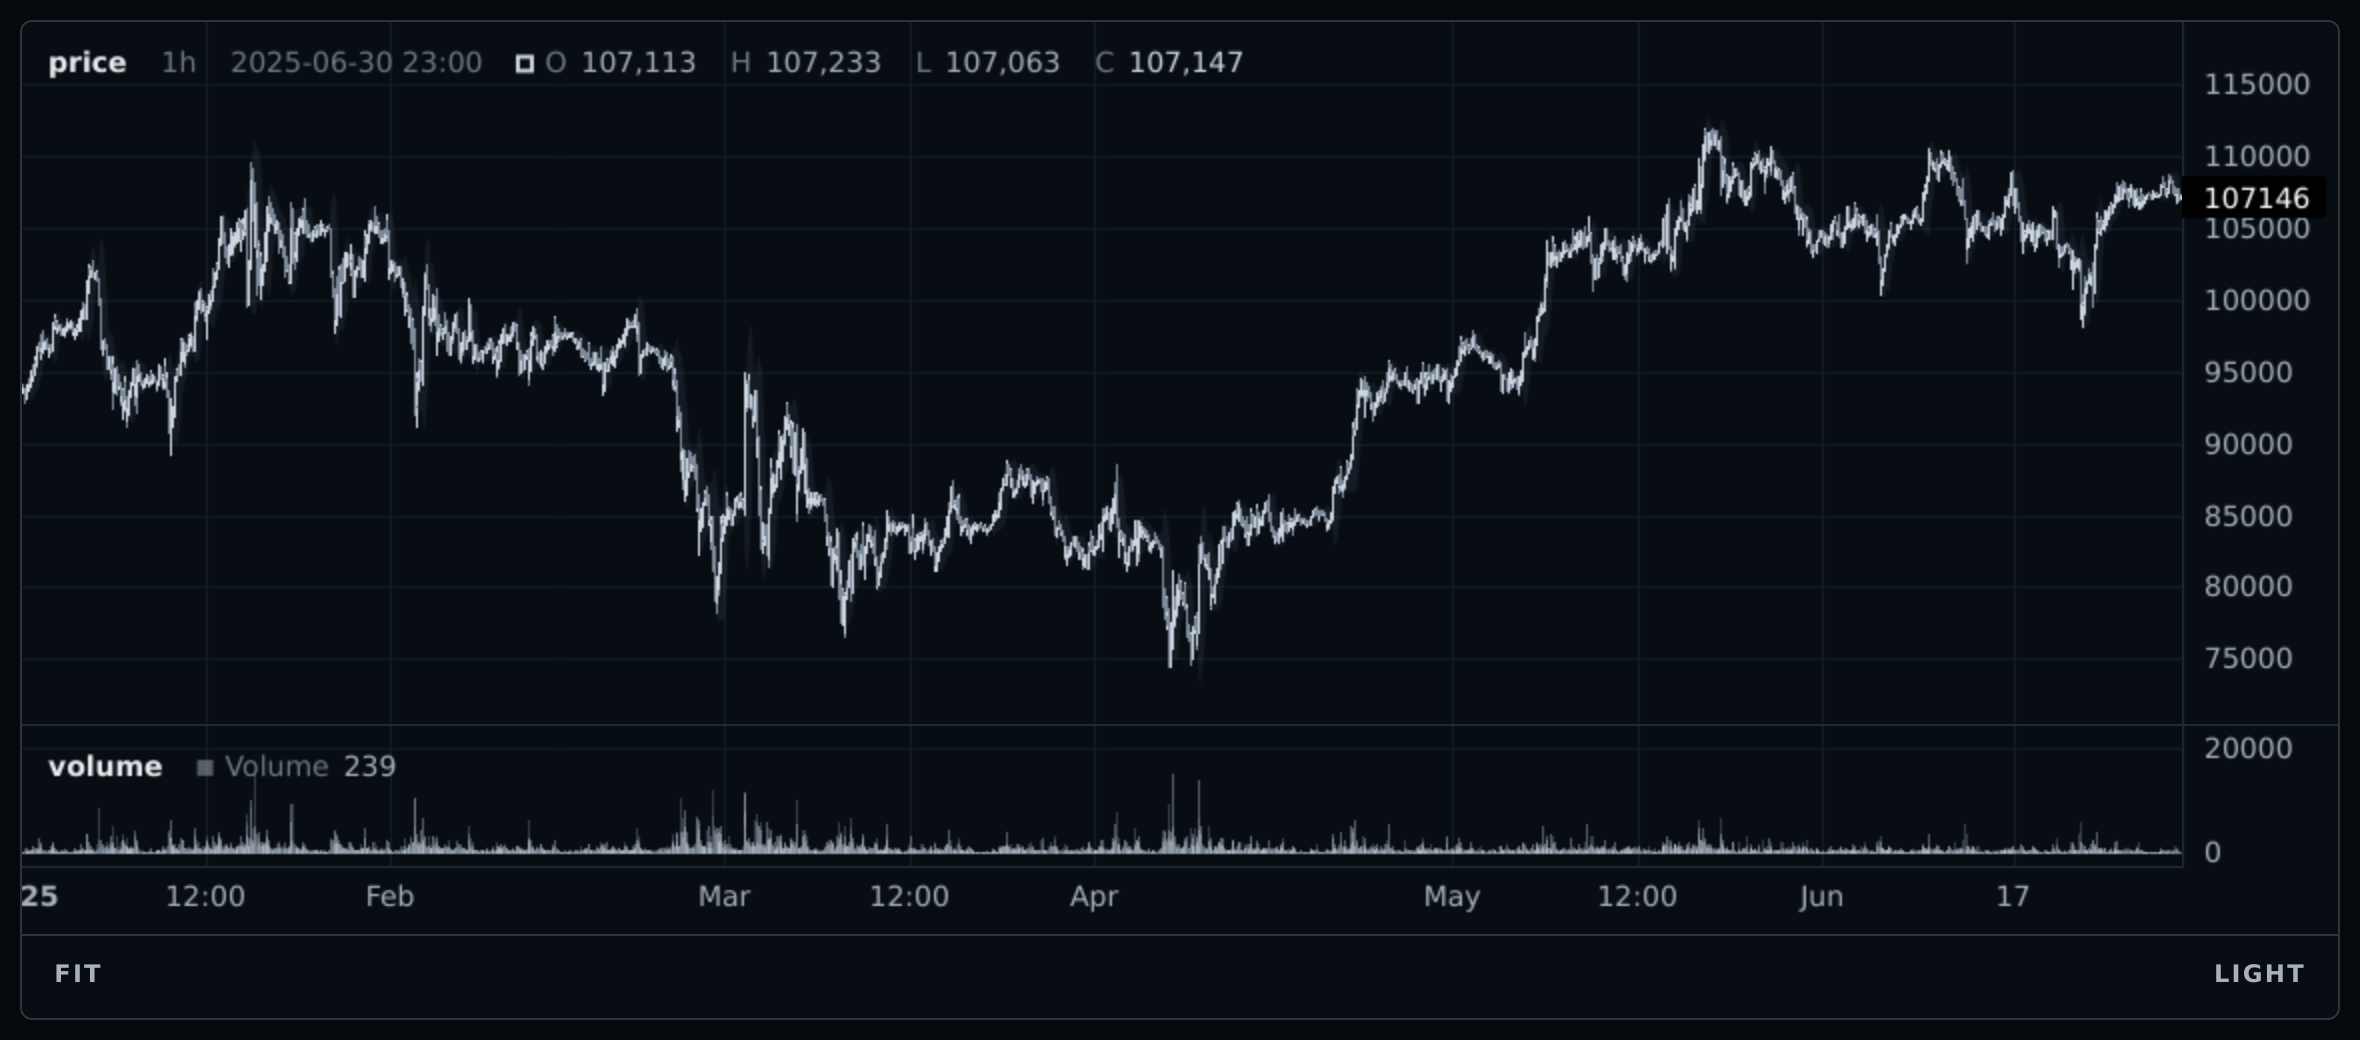
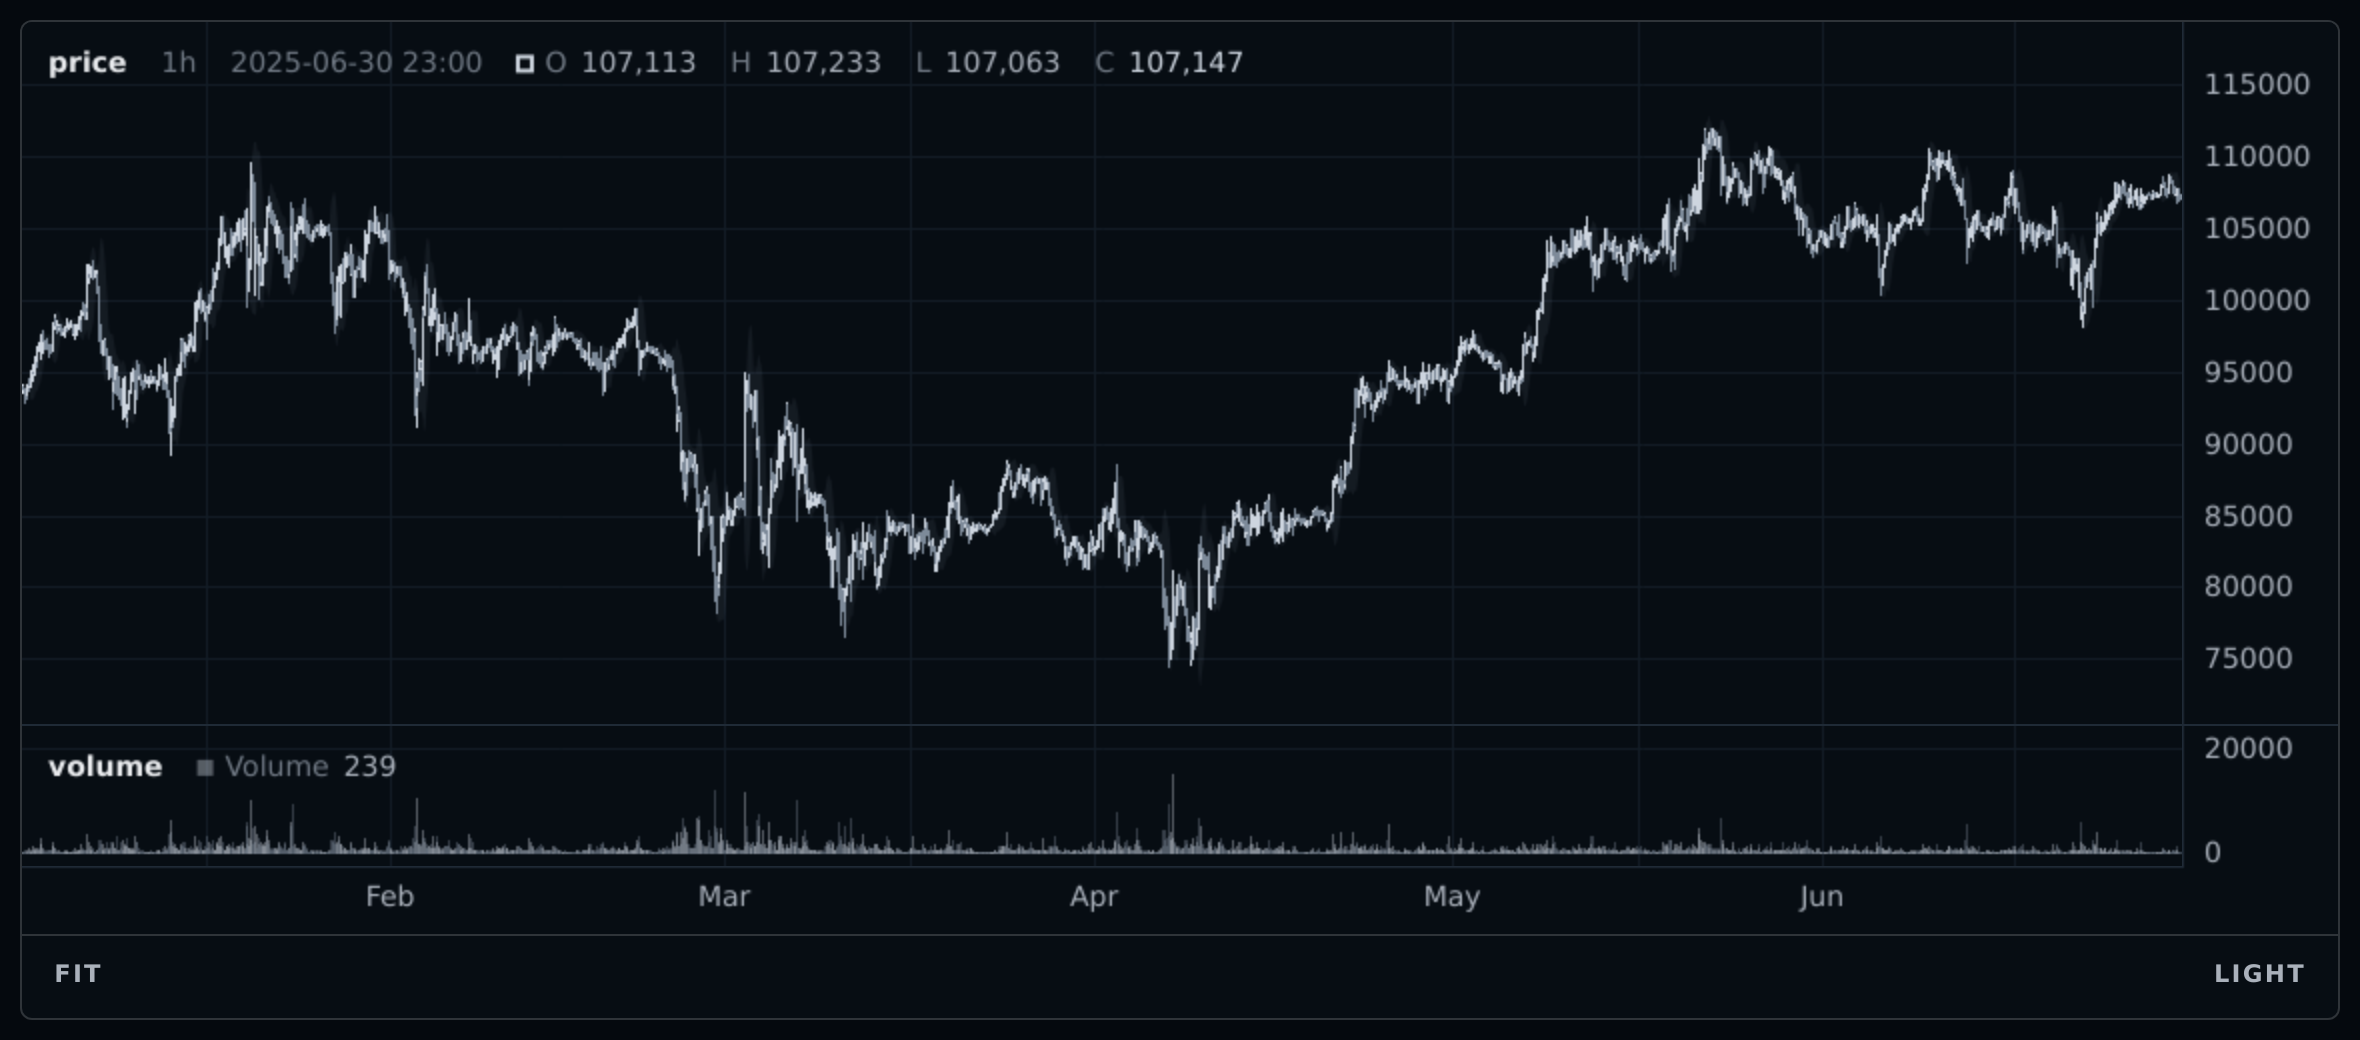
js,docs: drop the label that clips at either end, and redraw the images (ADR 0085)
- core.js: the year clipped at the left edge exactly as it did at the right, and
  fixing one end left the flagship image opening on 25 beside a clean right
  end, which is worse than the symmetry it replaced. One defect, seen twice
- imgs/charts: all fourteen redrawn from the frozen dataset. They pick up the
  aggregation, the single axis grain, the price axis with nothing stamped on it,
  and a background that reads as ground

diff --git a/python/emsl/_static/core.js b/python/emsl/_static/core.js
@@ -113,21 +113,27 @@ const coarsestTick = function (seconds) {
 };
 
 let axisSpan = 0;                      // seconds on screen
+let axisFrom = null;                   // and no label before this one
 let axisEdge = null;                   // no label past this time; it would be cut
 
 const tickMark = function (time) {
   // arguments rather than a named second parameter: the renderer passes
   // (time, tickMarkType, locale) and only the first two are read here
   if (arguments[1] > coarsestTick(axisSpan)) return "";
-  // the last label is centred on its bar and clipped where the price gutter
-  // begins, so a year of hourly candles ended the axis on "20" rather than
-  // "2026". The room has to come out of the gutter and the renderer carries no
-  // option for that; rightOffset buys it in bars, which narrows every candle on
-  // the chart to pay for one label, and two render tests were right to refuse
-  // it. Dropping the label that cannot fit is the honest trade: a truncated year
-  // is worse than no year, and the date is on the crosshair and in the legend
-  // whichever way this goes
+  // a label is centred on its bar and clipped by the edge of the plot, so a year
+  // of hourly candles ended the axis on "20" rather than "2026" and opened it on
+  // "25" rather than "2025". The room has to come out of the gutter and the
+  // renderer carries no option for that; rightOffset buys it in bars, which
+  // narrows every candle on the chart to pay for one label, and two render tests
+  // were right to refuse it. Dropping the label that cannot fit is the honest
+  // trade: a truncated year is worse than no year, and the date is on the
+  // crosshair and in the legend whichever way this goes.
+  //
+  // Both ends, because they are one defect seen twice. The right one is the one
+  // anybody notices, and fixing only it left the left end reading "25" beside a
+  // clean right end, which is worse than the symmetry it replaced
   if (axisEdge !== null && time > axisEdge) return "";
+  if (axisFrom !== null && time < axisFrom) return "";
   return null;
 };
 
@@ -149,12 +155,16 @@ const measureAxis = function (range) {
   // puts a clipped one back, and the whole point here is not to clip
   const room = Math.ceil((16 * UI) / Math.max(spacing, 0.0001));
   const edge = SPEC.t[clamp(Math.ceil(range.to) - room)];
+  // clamped, so a chart panned to leave slack on the left suppresses nothing:
+  // the label only clips when bar zero is against the edge
+  const from = SPEC.t[clamp(Math.floor(range.from) + room)];
 
   // guarded rather than unconditional: re-applying marks the axis dirty, and an
   // unguarded write would repaint on every frame of a drag forever
-  if (span === axisSpan && edge === axisEdge) return;
+  if (span === axisSpan && edge === axisEdge && from === axisFrom) return;
   axisSpan = span;
   axisEdge = edge;
+  axisFrom = from;
   chart.timeScale().applyOptions({ tickMarkFormatter: tickMark });
 };
 
